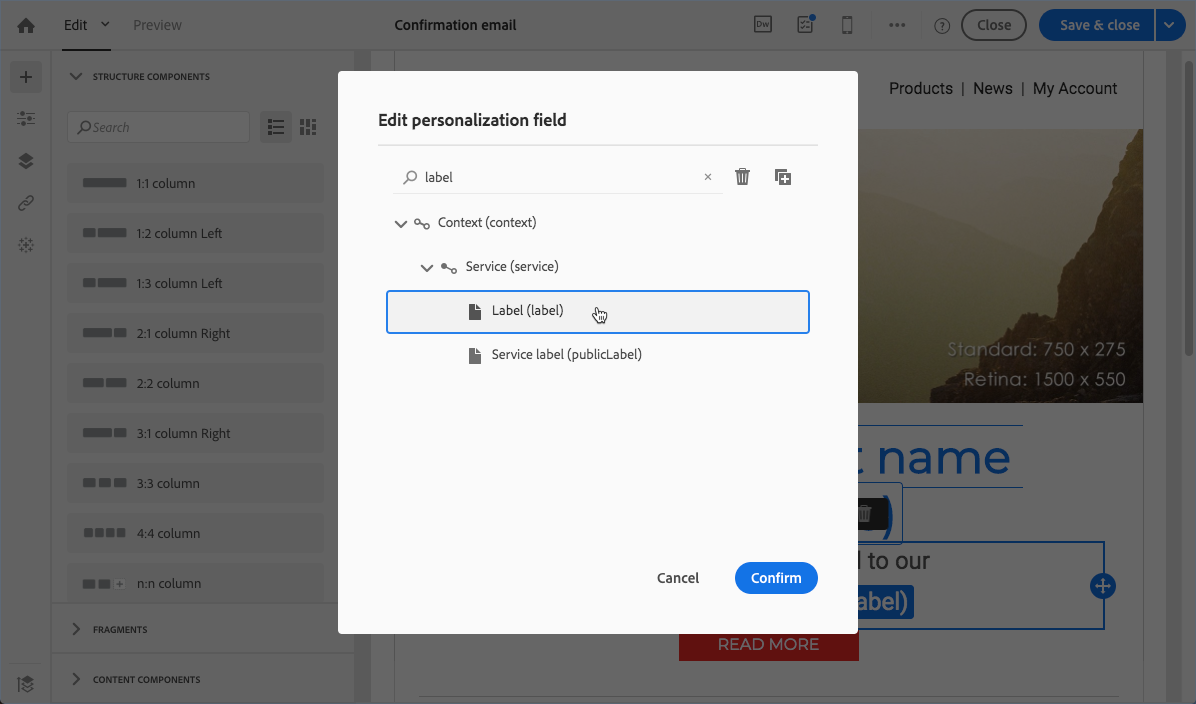
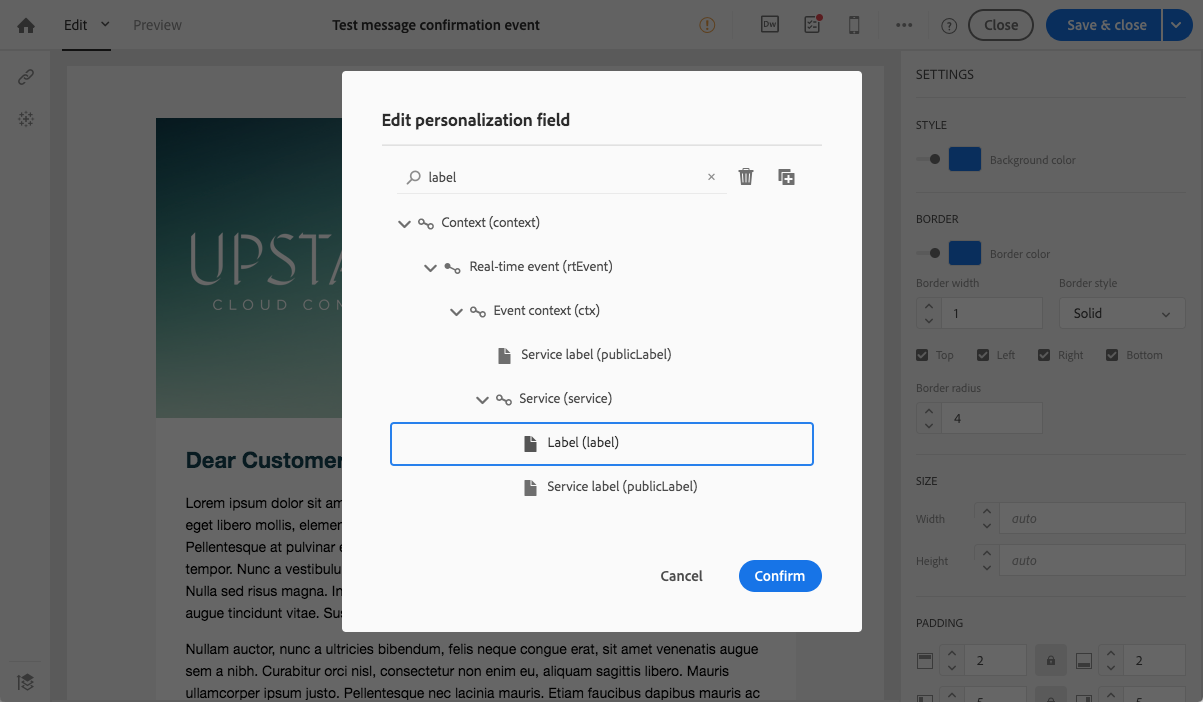
confirming subscription update

diff --git a/help/audiences/using/confirming-subscription-to-a-service.md b/help/audiences/using/confirming-subscription-to-a-service.md
@@ -49,13 +49,13 @@ Steps to create the confirmation email are described below. As the transactional
 The confirmation email is a transactional message as it reacts to an event: the subscription to a service. This message will be sent to confirm subscription to your newsletter.
 
 >[NOTE]
-    >
-    >The transactional message needs to be based on the **[!UICONTROL Profile]** resource. See [Profile transactional messages](../../channels/using/profile-transactional-messages.md).
+>
+>The transactional message needs to be based on the **[!UICONTROL Profile]** resource. See [Profile transactional messages](../../channels/using/profile-transactional-messages.md).
 
 1. Create an event from the **[!UICONTROL Marketing plans]** > **[!UICONTROL Transactional messages]** > **[!UICONTROL Event configuration]** menu, accessible from the Adobe Campaign logo.
 1. Enter a label, select a targeting dimension and click **[!UICONTROL Create]**.
 
-   ![](assets/confirmation_event-create.png)
+   <!--![](assets/confirmation_event-create.png)-->
 
     The configuration steps are presented in the [Configuring transactional messaging](../../administration/using/configuring-transactional-messaging.md) section.
     <!--1. Enter a label, select the **[!UICONTROL Profile]** targeting dimension and click **[!UICONTROL Create]**.
@@ -100,12 +100,14 @@ The confirmation email is a transactional message based on the event that you ju
 1. From the Adobe Campaign logo, select **[!UICONTROL Marketing plans]** > **[!UICONTROL Transactional messages]** and click **[!UICONTROL Transactional messages]**.
 1. Select the transactional email corresponding to the event that you just published.
 
-    ![](assets/confirmation_transactional-message.png)
+    <!--![](assets/confirmation_transactional-message.png)-->
 
-1. Click the **[!UICONTROL Content]** section and select an email template. For more on editing a transactional message content, see [Sending a profile transactional message](../../channels/using/profile-transactional-messages.md#sending-a-profile-transactional-message).
-1. As you have direct access to all profile and service information, you can select any field from the **[!UICONTROL Context]** > **[!UICONTROL Service]** node to personalize your content. For more on this, see See [Inserting a personalization field](../../designing/using/inserting-a-personalization-field.md).
+1. Click the **[!UICONTROL Content]** section and select an email template. For more on editing a transactional message content, see [Event transactional messages](../../channels/using/event-transactional-messages.md).
+1. As you have direct access to all fields from the **[!UICONTROL Service]** resource, you can select any field from the **[!UICONTROL Context]** > **[!UICONTROL Real-time event (rtEvent)]** > **[!UICONTROL Event context (ctx)]** >**[!UICONTROL Service]** node to personalize your content.
 
     ![](assets/confirmation_personalization-service.png)
+
+    For more on personalizing a transactional message, see [this section](../../channels/using/event-transactional-messages.md#personalizing-a-transactional-message).
 
 1. Preview your message using a test profile. For more on this, see [Defining a test profile in a transactional message](../../channels/using/event-transactional-messages.md#defining-a-test-profile-in-a-transactional-message).
     <!--Is it possible to preview with fields from the Service resource? Seems like doesn't work for me-->
@@ -116,9 +118,13 @@ The confirmation email is a transactional message based on the event that you ju
 
 1. From the advanced menu **Profiles & audiences** > **Services** via the Adobe Campaign logo, create a service.
 1. Go to the **[!UICONTROL Service properties]** section, accessed via the ![](assets/edit_darkgrey-24px.png) button in the service dashboard.
-1. Fill in the **[!UICONTROL Service label]** field. This label will be displayed in the confirmation message and in the subscription landing page if any.
+1. Fill in the **[!UICONTROL Service label]** field.
 
     ![](assets/confirmation_service-label.png)
+
+    >[NOTE]
+    >
+    >You must fill in this field to enable reconciliation with the service.
 
 1. In the **[!UICONTROL Confirmation messages]** section, select **[!UICONTROL Custom message]**: this mode allows you to reference a specific confirmation message for profiles subscribing to your service.
 1. Select the **[!UICONTROL Custom subscription event configuration]** associated with the transactional message that you created.
